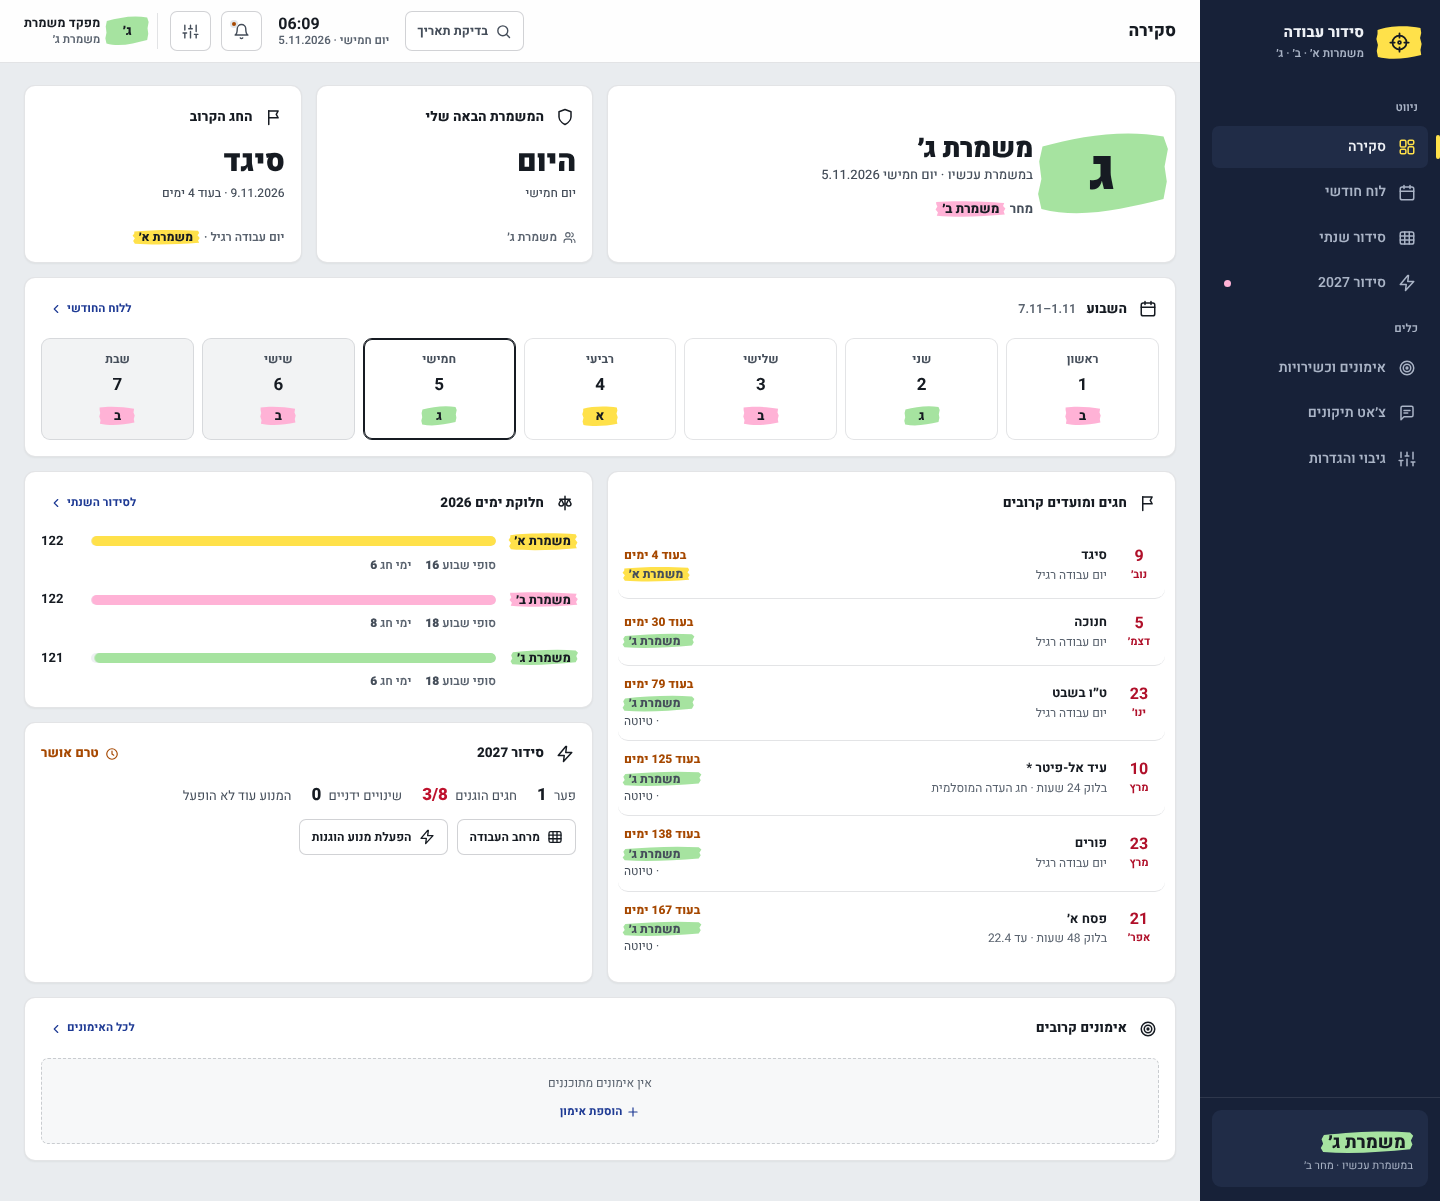
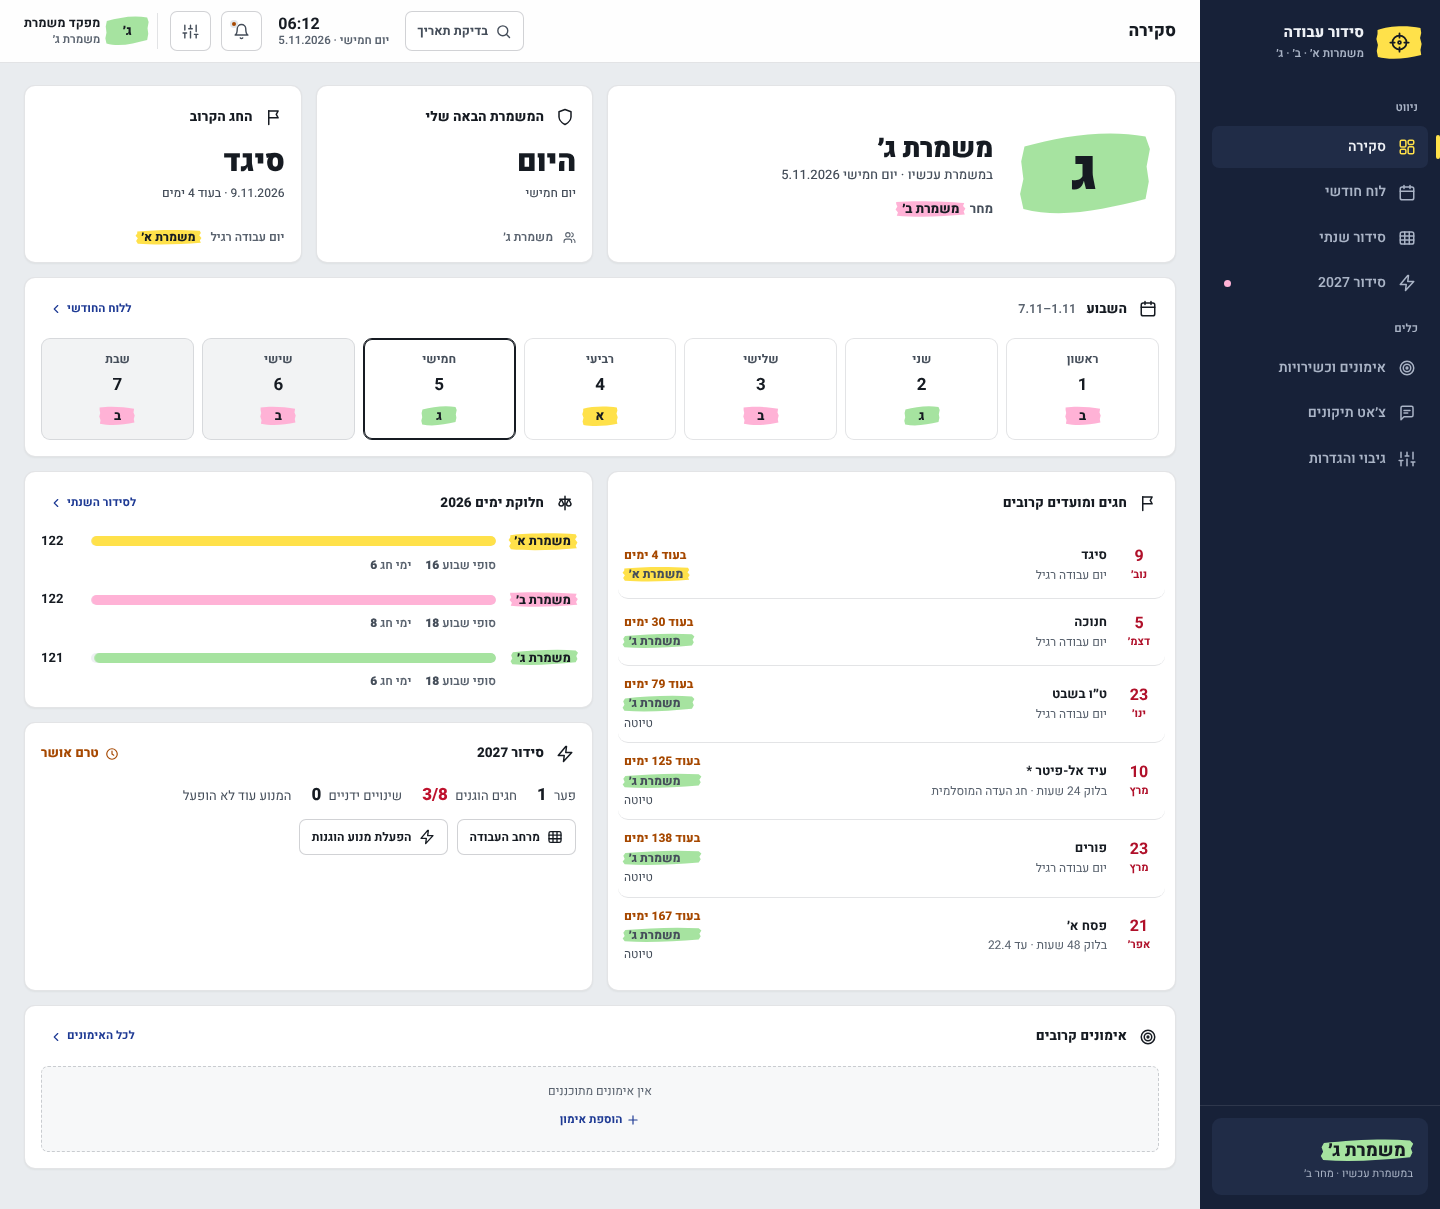
תיקוני ביקורת: מרווח למרקר בכותרת, סטטוס טיוטה בשורה נפרדת, חגים צפופים בטבלה כנקודה
Claude-Session: https://claude.ai/code/session_01VDLQJcN6K5eXoTaDqsaUC6

diff --git a/mefakdim/index.html b/mefakdim/index.html
@@ -1126,8 +1126,8 @@ input,textarea{caret-color:var(--olive)}
 .mk::before{content:'';position:absolute;inset:var(--mk-in,0);z-index:-1;pointer-events:none;background:var(--mk);
   -webkit-mask:var(--stroke) 0 0/100% 100% no-repeat;mask:var(--stroke) 0 0/100% 100% no-repeat}
 .wk-sh.mk,.md-sh.mk,.hd-av.mk,.sc.mk{--mk-in:0 -4px}
-.ring.mk{--mk-in:6px -18px;width:96px}
-.ring.sm.mk{--mk-in:4px -10px;width:58px}
+.ring.mk{--mk-in:6px -18px;width:96px;margin-inline:18px 22px}
+.ring.sm.mk{--mk-in:4px -10px;width:58px;margin-inline:10px 14px}
 .ym .ys.mk{--mk-in:1px -1px}
 .mkw{display:inline-block;white-space:nowrap;padding:0 .3em;margin:0 .1em;--mk-in:-1px -3px 0;font-weight:800;color:var(--mk-ink)}
 .tag-tom{background:transparent;border:0;padding:0;font-size:13px;color:var(--muted)}
@@ -1163,6 +1163,9 @@ input,textarea{caret-color:var(--olive)}
 .ym .yh{height:14px;font-size:10px}
 .ym .yh.sm,.ym .yh.xs{font-size:10px}
 .ym .yl{line-height:14px}
+.ym .yl.yd1::after{content:'';position:absolute;top:4px;inset-inline-start:calc(50% - 3px);width:6px;height:6px;border-radius:50%;background:currentColor}
+.ev-r small{display:block;font-size:12px;color:var(--muted);margin-top:2px}
+.kpi-f{flex-wrap:wrap;gap:4px 10px}
 /* כרטיס מתקפל */
 .fold>summary{list-style:none;cursor:pointer;margin-bottom:0}
 .fold>summary::-webkit-details-marker{display:none}
@@ -2553,7 +2556,7 @@ function renderOverview(){
   h+=`<div class="card kpi c-3${ne?' click':''}" ${ne?`data-day="${isoOf(ne.start)}" role="button" tabindex="0"`:''}><div class="ch"><span class="ibox gold">${ico('i-flag')}</span><h3>${ne&&ne.minor&&(!ne.yel||ne.mem)?'המועד הקרוב':'החג הקרוב'}</h3></div>
     <div class="kpi-v">${ne?esc(ne.name):'—'}</div>
     <div class="kpi-l">${ne?fmtFull(ne.start)+' · '+(ne.start<=TODAY?'בעיצומו':whenTxt(ne.start)):'אין חגים בהמשך הלוח'}</div>
-    <div class="kpi-f">${ne?(ne.minor||ne.cw?'יום עבודה רגיל':'בלוק '+ne.dur+' שעות')+(dutyFor(ne.start)?' · '+mkw(dutyFor(ne.start),'משמרת '+dutyFor(ne.start)):''):''}</div></div>`;
+    <div class="kpi-f">${ne?'<span>'+(ne.minor||ne.cw?'יום עבודה רגיל':'בלוק '+ne.dur+' שעות')+'</span>'+(dutyFor(ne.start)?mkw(dutyFor(ne.start),'משמרת '+dutyFor(ne.start)):''):''}</div></div>`;
   h+=`<div class="card c-12"><div class="ch"><span class="ibox olive">${ico('i-cal')}</span><h3>השבוע</h3><span class="meta num">${fmtDM(wk0)}–${fmtDM(addDays(wk0,6))}</span><div class="end"><button class="link" data-nav="month">ללוח החודשי${ico('i-chevl')}</button></div></div><div class="wk">`;
   for(let i=0;i<7;i++){
     const d=addDays(wk0,i),k=isoOf(d),nm=dutyFor(d),hl=HOL_MAP[holKey(d)],t=d.getTime()===TODAY.getTime(),tr=trainingsOn(k).length;
@@ -2561,7 +2564,7 @@ function renderOverview(){
   }
   h+='</div></div>';
   h+=`<div class="card c-6"><div class="ch"><span class="ibox gold">${ico('i-flag')}</span><h3>חגים ומועדים קרובים</h3></div>`;
-  h+=evs.length?evs.map(e=>`<div class="ev" data-day="${isoOf(e.start)}" role="button" tabindex="0"><div class="ev-b${e.minor&&!e.yel?' minor':' hol'}"><b>${e.start.getDate()}</b><span>${MON_S[e.start.getMonth()]}</span></div><div class="ev-t"><b>${esc(e.name)}${e.est?' *':''}</b><span>${e.minor?'יום עבודה רגיל':e.cw?COM_NAME[e.com]+' · יום עבודה רגיל'+(e.days>1?' · עד '+fmtDM(e.end):''):'בלוק '+e.dur+' שעות'+(e.days>1?' · עד '+fmtDM(e.end):'')+(e.com?' · '+COM_NAME[e.com]:'')}</span></div><div class="ev-r"><b>${e.start<=TODAY?'בעיצומו':whenTxt(e.start)}</b><span>${mkw(dutyFor(e.start),'משמרת '+(dutyFor(e.start)||'—'))}${isDraftDate(e.start)?' · טיוטה':''}</span></div></div>`).join(''):'<div class="empty">אין חגים בהמשך הלוח</div>';
+  h+=evs.length?evs.map(e=>`<div class="ev" data-day="${isoOf(e.start)}" role="button" tabindex="0"><div class="ev-b${e.minor&&!e.yel?' minor':' hol'}"><b>${e.start.getDate()}</b><span>${MON_S[e.start.getMonth()]}</span></div><div class="ev-t"><b>${esc(e.name)}${e.est?' *':''}</b><span>${e.minor?'יום עבודה רגיל':e.cw?COM_NAME[e.com]+' · יום עבודה רגיל'+(e.days>1?' · עד '+fmtDM(e.end):''):'בלוק '+e.dur+' שעות'+(e.days>1?' · עד '+fmtDM(e.end):'')+(e.com?' · '+COM_NAME[e.com]:'')}</span></div><div class="ev-r"><b>${e.start<=TODAY?'בעיצומו':whenTxt(e.start)}</b><span>${mkw(dutyFor(e.start),'משמרת '+(dutyFor(e.start)||'—'))}</span>${isDraftDate(e.start)?'<small>טיוטה</small>':''}</div></div>`).join(''):'<div class="empty">אין חגים בהמשך הלוח</div>';
   h+='</div>';
   
   // בגרסת המפקדים אין את כרטיסי חלוקת הימים וסידור השנה הבאה — האימונים הקרובים עולים לצד החגים
@@ -2606,7 +2609,7 @@ let yearY=clampY(TODAY.getFullYear());
 function colsFor(y){let mx=0;for(let m=0;m<12;m++){const s=new Date(y,m,1).getDay()+new Date(y,m+1,0).getDate();if(s>mx)mx=s}return mx}
 const yhClass=l=>{const n=(l||'').length;return n>=10?' xs':n>=7?' sm':''};
 // שורת החגים: כל תווית נפרסת על התאים שאחריה עד התווית הבאה בשורה, בלי לעלות עליה (השם המלא ב־title)
-function yhRow(L){let h='';for(let i=0;i<L.length;i++){const x=L[i];if(!x.l){h+=`<td class="${x.c}"></td>`;continue}let n=1;while(i+n<L.length&&!L[i+n].l)n++;h+=`<td class="${x.c}"><span class="yl" style="--n:${n}" title="${esc(x.f||x.l)}">${esc(x.l)}</span></td>`}return h}
+function yhRow(L){let h='';for(let i=0;i<L.length;i++){const x=L[i];if(!x.l){h+=`<td class="${x.c}"></td>`;continue}let n=1;while(i+n<L.length&&!L[i+n].l)n++;h+=n<2&&x.l.length>3?`<td class="${x.c}"><span class="yl yd1" title="${esc(x.f||x.l)}" aria-label="${esc(x.f||x.l)}"></span></td>`:`<td class="${x.c}"><span class="yl" style="--n:${n}" title="${esc(x.f||x.l)}">${esc(x.l)}</span></td>`}return h}
 function tableHead(cols){
   let h='<tr><th class="c-mn">חודש</th><th class="c-rl">סוג</th>';
   for(let c=0;c<cols;c++){const wd=c%7;h+=`<th class="c-d${wd>=5?' we':''}">${DOWL[wd]}</th>`}

diff --git a/src/sidur.src.html b/src/sidur.src.html
@@ -1140,8 +1140,8 @@ input,textarea{caret-color:var(--olive)}
 .mk::before{content:'';position:absolute;inset:var(--mk-in,0);z-index:-1;pointer-events:none;background:var(--mk);
   -webkit-mask:var(--stroke) 0 0/100% 100% no-repeat;mask:var(--stroke) 0 0/100% 100% no-repeat}
 .wk-sh.mk,.md-sh.mk,.hd-av.mk,.sc.mk{--mk-in:0 -4px}
-.ring.mk{--mk-in:6px -18px;width:96px}
-.ring.sm.mk{--mk-in:4px -10px;width:58px}
+.ring.mk{--mk-in:6px -18px;width:96px;margin-inline:18px 22px}
+.ring.sm.mk{--mk-in:4px -10px;width:58px;margin-inline:10px 14px}
 .ym .ys.mk{--mk-in:1px -1px}
 .mkw{display:inline-block;white-space:nowrap;padding:0 .3em;margin:0 .1em;--mk-in:-1px -3px 0;font-weight:800;color:var(--mk-ink)}
 .tag-tom{background:transparent;border:0;padding:0;font-size:13px;color:var(--muted)}
@@ -1177,6 +1177,9 @@ input,textarea{caret-color:var(--olive)}
 .ym .yh{height:14px;font-size:10px}
 .ym .yh.sm,.ym .yh.xs{font-size:10px}
 .ym .yl{line-height:14px}
+.ym .yl.yd1::after{content:'';position:absolute;top:4px;inset-inline-start:calc(50% - 3px);width:6px;height:6px;border-radius:50%;background:currentColor}
+.ev-r small{display:block;font-size:12px;color:var(--muted);margin-top:2px}
+.kpi-f{flex-wrap:wrap;gap:4px 10px}
 /* כרטיס מתקפל */
 .fold>summary{list-style:none;cursor:pointer;margin-bottom:0}
 .fold>summary::-webkit-details-marker{display:none}
@@ -2811,7 +2814,7 @@ function renderOverview(){
   h+=`<div class="card kpi c-3${ne?' click':''}" ${ne?`data-day="${isoOf(ne.start)}" role="button" tabindex="0"`:''}><div class="ch"><span class="ibox gold">${ico('i-flag')}</span><h3>${ne&&ne.minor&&(!ne.yel||ne.mem)?'המועד הקרוב':'החג הקרוב'}</h3></div>
     <div class="kpi-v">${ne?esc(ne.name):'—'}</div>
     <div class="kpi-l">${ne?fmtFull(ne.start)+' · '+(ne.start<=TODAY?'בעיצומו':whenTxt(ne.start)):'אין חגים בהמשך הלוח'}</div>
-    <div class="kpi-f">${ne?(ne.minor||ne.cw?'יום עבודה רגיל':'בלוק '+ne.dur+' שעות')+(dutyFor(ne.start)?' · '+mkw(dutyFor(ne.start),'משמרת '+dutyFor(ne.start)):''):''}</div></div>`;
+    <div class="kpi-f">${ne?'<span>'+(ne.minor||ne.cw?'יום עבודה רגיל':'בלוק '+ne.dur+' שעות')+'</span>'+(dutyFor(ne.start)?mkw(dutyFor(ne.start),'משמרת '+dutyFor(ne.start)):''):''}</div></div>`;
   h+=`<div class="card c-12"><div class="ch"><span class="ibox olive">${ico('i-cal')}</span><h3>השבוע</h3><span class="meta num">${fmtDM(wk0)}–${fmtDM(addDays(wk0,6))}</span><div class="end"><button class="link" data-nav="month">ללוח החודשי${ico('i-chevl')}</button></div></div><div class="wk">`;
   for(let i=0;i<7;i++){
     const d=addDays(wk0,i),k=isoOf(d),nm=dutyFor(d),hl=HOL_MAP[holKey(d)],t=d.getTime()===TODAY.getTime(),tr=trainingsOn(k).length;
@@ -2819,7 +2822,7 @@ function renderOverview(){
   }
   h+='</div></div>';
   h+=`<div class="card c-6"><div class="ch"><span class="ibox gold">${ico('i-flag')}</span><h3>חגים ומועדים קרובים</h3></div>`;
-  h+=evs.length?evs.map(e=>`<div class="ev" data-day="${isoOf(e.start)}" role="button" tabindex="0"><div class="ev-b${e.minor&&!e.yel?' minor':' hol'}"><b>${e.start.getDate()}</b><span>${MON_S[e.start.getMonth()]}</span></div><div class="ev-t"><b>${esc(e.name)}${e.est?' *':''}</b><span>${e.minor?'יום עבודה רגיל':e.cw?COM_NAME[e.com]+' · יום עבודה רגיל'+(e.days>1?' · עד '+fmtDM(e.end):''):'בלוק '+e.dur+' שעות'+(e.days>1?' · עד '+fmtDM(e.end):'')+(e.com?' · '+COM_NAME[e.com]:'')}</span></div><div class="ev-r"><b>${e.start<=TODAY?'בעיצומו':whenTxt(e.start)}</b><span>${mkw(dutyFor(e.start),'משמרת '+(dutyFor(e.start)||'—'))}${isDraftDate(e.start)?' · טיוטה':''}</span></div></div>`).join(''):'<div class="empty">אין חגים בהמשך הלוח</div>';
+  h+=evs.length?evs.map(e=>`<div class="ev" data-day="${isoOf(e.start)}" role="button" tabindex="0"><div class="ev-b${e.minor&&!e.yel?' minor':' hol'}"><b>${e.start.getDate()}</b><span>${MON_S[e.start.getMonth()]}</span></div><div class="ev-t"><b>${esc(e.name)}${e.est?' *':''}</b><span>${e.minor?'יום עבודה רגיל':e.cw?COM_NAME[e.com]+' · יום עבודה רגיל'+(e.days>1?' · עד '+fmtDM(e.end):''):'בלוק '+e.dur+' שעות'+(e.days>1?' · עד '+fmtDM(e.end):'')+(e.com?' · '+COM_NAME[e.com]:'')}</span></div><div class="ev-r"><b>${e.start<=TODAY?'בעיצומו':whenTxt(e.start)}</b><span>${mkw(dutyFor(e.start),'משמרת '+(dutyFor(e.start)||'—'))}</span>${isDraftDate(e.start)?'<small>טיוטה</small>':''}</div></div>`).join(''):'<div class="empty">אין חגים בהמשך הלוח</div>';
   h+='</div>';
   /*@admin*/
   const maxT=Math.max(1,...SHIFT_NAMES.map(n=>ys.st[n].total));
@@ -2875,7 +2878,7 @@ let yearY=clampY(TODAY.getFullYear());
 function colsFor(y){let mx=0;for(let m=0;m<12;m++){const s=new Date(y,m,1).getDay()+new Date(y,m+1,0).getDate();if(s>mx)mx=s}return mx}
 const yhClass=l=>{const n=(l||'').length;return n>=10?' xs':n>=7?' sm':''};
 // שורת החגים: כל תווית נפרסת על התאים שאחריה עד התווית הבאה בשורה, בלי לעלות עליה (השם המלא ב־title)
-function yhRow(L){let h='';for(let i=0;i<L.length;i++){const x=L[i];if(!x.l){h+=`<td class="${x.c}"></td>`;continue}let n=1;while(i+n<L.length&&!L[i+n].l)n++;h+=`<td class="${x.c}"><span class="yl" style="--n:${n}" title="${esc(x.f||x.l)}">${esc(x.l)}</span></td>`}return h}
+function yhRow(L){let h='';for(let i=0;i<L.length;i++){const x=L[i];if(!x.l){h+=`<td class="${x.c}"></td>`;continue}let n=1;while(i+n<L.length&&!L[i+n].l)n++;h+=n<2&&x.l.length>3?`<td class="${x.c}"><span class="yl yd1" title="${esc(x.f||x.l)}" aria-label="${esc(x.f||x.l)}"></span></td>`:`<td class="${x.c}"><span class="yl" style="--n:${n}" title="${esc(x.f||x.l)}">${esc(x.l)}</span></td>`}return h}
 function tableHead(cols){
   let h='<tr><th class="c-mn">חודש</th><th class="c-rl">סוג</th>';
   for(let c=0;c<cols;c++){const wd=c%7;h+=`<th class="c-d${wd>=5?' we':''}">${DOWL[wd]}</th>`}

diff --git a/index.html b/index.html
@@ -994,8 +994,8 @@ input,textarea{caret-color:var(--olive)}
 .mk::before{content:'';position:absolute;inset:var(--mk-in,0);z-index:-1;pointer-events:none;background:var(--mk);
   -webkit-mask:var(--stroke) 0 0/100% 100% no-repeat;mask:var(--stroke) 0 0/100% 100% no-repeat}
 .wk-sh.mk,.md-sh.mk,.hd-av.mk,.sc.mk{--mk-in:0 -4px}
-.ring.mk{--mk-in:6px -18px;width:96px}
-.ring.sm.mk{--mk-in:4px -10px;width:58px}
+.ring.mk{--mk-in:6px -18px;width:96px;margin-inline:18px 22px}
+.ring.sm.mk{--mk-in:4px -10px;width:58px;margin-inline:10px 14px}
 .ym .ys.mk{--mk-in:1px -1px}
 .mkw{display:inline-block;white-space:nowrap;padding:0 .3em;margin:0 .1em;--mk-in:-1px -3px 0;font-weight:800;color:var(--mk-ink)}
 .tag-tom{background:transparent;border:0;padding:0;font-size:13px;color:var(--muted)}
@@ -1031,6 +1031,9 @@ input,textarea{caret-color:var(--olive)}
 .ym .yh{height:14px;font-size:10px}
 .ym .yh.sm,.ym .yh.xs{font-size:10px}
 .ym .yl{line-height:14px}
+.ym .yl.yd1::after{content:'';position:absolute;top:4px;inset-inline-start:calc(50% - 3px);width:6px;height:6px;border-radius:50%;background:currentColor}
+.ev-r small{display:block;font-size:12px;color:var(--muted);margin-top:2px}
+.kpi-f{flex-wrap:wrap;gap:4px 10px}
 /* כרטיס מתקפל */
 .fold>summary{list-style:none;cursor:pointer;margin-bottom:0}
 .fold>summary::-webkit-details-marker{display:none}
@@ -2611,7 +2614,7 @@ function renderOverview(){
   h+=`<div class="card kpi c-3${ne?' click':''}" ${ne?`data-day="${isoOf(ne.start)}" role="button" tabindex="0"`:''}><div class="ch"><span class="ibox gold">${ico('i-flag')}</span><h3>${ne&&ne.minor&&(!ne.yel||ne.mem)?'המועד הקרוב':'החג הקרוב'}</h3></div>
     <div class="kpi-v">${ne?esc(ne.name):'—'}</div>
     <div class="kpi-l">${ne?fmtFull(ne.start)+' · '+(ne.start<=TODAY?'בעיצומו':whenTxt(ne.start)):'אין חגים בהמשך הלוח'}</div>
-    <div class="kpi-f">${ne?(ne.minor||ne.cw?'יום עבודה רגיל':'בלוק '+ne.dur+' שעות')+(dutyFor(ne.start)?' · '+mkw(dutyFor(ne.start),'משמרת '+dutyFor(ne.start)):''):''}</div></div>`;
+    <div class="kpi-f">${ne?'<span>'+(ne.minor||ne.cw?'יום עבודה רגיל':'בלוק '+ne.dur+' שעות')+'</span>'+(dutyFor(ne.start)?mkw(dutyFor(ne.start),'משמרת '+dutyFor(ne.start)):''):''}</div></div>`;
   h+=`<div class="card c-12"><div class="ch"><span class="ibox olive">${ico('i-cal')}</span><h3>השבוע</h3><span class="meta num">${fmtDM(wk0)}–${fmtDM(addDays(wk0,6))}</span><div class="end"><button class="link" data-nav="month">ללוח החודשי${ico('i-chevl')}</button></div></div><div class="wk">`;
   for(let i=0;i<7;i++){
     const d=addDays(wk0,i),k=isoOf(d),nm=dutyFor(d),hl=HOL_MAP[holKey(d)],t=d.getTime()===TODAY.getTime(),tr=trainingsOn(k).length;
@@ -2619,7 +2622,7 @@ function renderOverview(){
   }
   h+='</div></div>';
   h+=`<div class="card c-6"><div class="ch"><span class="ibox gold">${ico('i-flag')}</span><h3>חגים ומועדים קרובים</h3></div>`;
-  h+=evs.length?evs.map(e=>`<div class="ev" data-day="${isoOf(e.start)}" role="button" tabindex="0"><div class="ev-b${e.minor&&!e.yel?' minor':' hol'}"><b>${e.start.getDate()}</b><span>${MON_S[e.start.getMonth()]}</span></div><div class="ev-t"><b>${esc(e.name)}${e.est?' *':''}</b><span>${e.minor?'יום עבודה רגיל':e.cw?COM_NAME[e.com]+' · יום עבודה רגיל'+(e.days>1?' · עד '+fmtDM(e.end):''):'בלוק '+e.dur+' שעות'+(e.days>1?' · עד '+fmtDM(e.end):'')+(e.com?' · '+COM_NAME[e.com]:'')}</span></div><div class="ev-r"><b>${e.start<=TODAY?'בעיצומו':whenTxt(e.start)}</b><span>${mkw(dutyFor(e.start),'משמרת '+(dutyFor(e.start)||'—'))}${isDraftDate(e.start)?' · טיוטה':''}</span></div></div>`).join(''):'<div class="empty">אין חגים בהמשך הלוח</div>';
+  h+=evs.length?evs.map(e=>`<div class="ev" data-day="${isoOf(e.start)}" role="button" tabindex="0"><div class="ev-b${e.minor&&!e.yel?' minor':' hol'}"><b>${e.start.getDate()}</b><span>${MON_S[e.start.getMonth()]}</span></div><div class="ev-t"><b>${esc(e.name)}${e.est?' *':''}</b><span>${e.minor?'יום עבודה רגיל':e.cw?COM_NAME[e.com]+' · יום עבודה רגיל'+(e.days>1?' · עד '+fmtDM(e.end):''):'בלוק '+e.dur+' שעות'+(e.days>1?' · עד '+fmtDM(e.end):'')+(e.com?' · '+COM_NAME[e.com]:'')}</span></div><div class="ev-r"><b>${e.start<=TODAY?'בעיצומו':whenTxt(e.start)}</b><span>${mkw(dutyFor(e.start),'משמרת '+(dutyFor(e.start)||'—'))}</span>${isDraftDate(e.start)?'<small>טיוטה</small>':''}</div></div>`).join(''):'<div class="empty">אין חגים בהמשך הלוח</div>';
   h+='</div>';
   
   const maxT=Math.max(1,...SHIFT_NAMES.map(n=>ys.st[n].total));
@@ -2675,7 +2678,7 @@ let yearY=clampY(TODAY.getFullYear());
 function colsFor(y){let mx=0;for(let m=0;m<12;m++){const s=new Date(y,m,1).getDay()+new Date(y,m+1,0).getDate();if(s>mx)mx=s}return mx}
 const yhClass=l=>{const n=(l||'').length;return n>=10?' xs':n>=7?' sm':''};
 // שורת החגים: כל תווית נפרסת על התאים שאחריה עד התווית הבאה בשורה, בלי לעלות עליה (השם המלא ב־title)
-function yhRow(L){let h='';for(let i=0;i<L.length;i++){const x=L[i];if(!x.l){h+=`<td class="${x.c}"></td>`;continue}let n=1;while(i+n<L.length&&!L[i+n].l)n++;h+=`<td class="${x.c}"><span class="yl" style="--n:${n}" title="${esc(x.f||x.l)}">${esc(x.l)}</span></td>`}return h}
+function yhRow(L){let h='';for(let i=0;i<L.length;i++){const x=L[i];if(!x.l){h+=`<td class="${x.c}"></td>`;continue}let n=1;while(i+n<L.length&&!L[i+n].l)n++;h+=n<2&&x.l.length>3?`<td class="${x.c}"><span class="yl yd1" title="${esc(x.f||x.l)}" aria-label="${esc(x.f||x.l)}"></span></td>`:`<td class="${x.c}"><span class="yl" style="--n:${n}" title="${esc(x.f||x.l)}">${esc(x.l)}</span></td>`}return h}
 function tableHead(cols){
   let h='<tr><th class="c-mn">חודש</th><th class="c-rl">סוג</th>';
   for(let c=0;c<cols;c++){const wd=c%7;h+=`<th class="c-d${wd>=5?' we':''}">${DOWL[wd]}</th>`}
